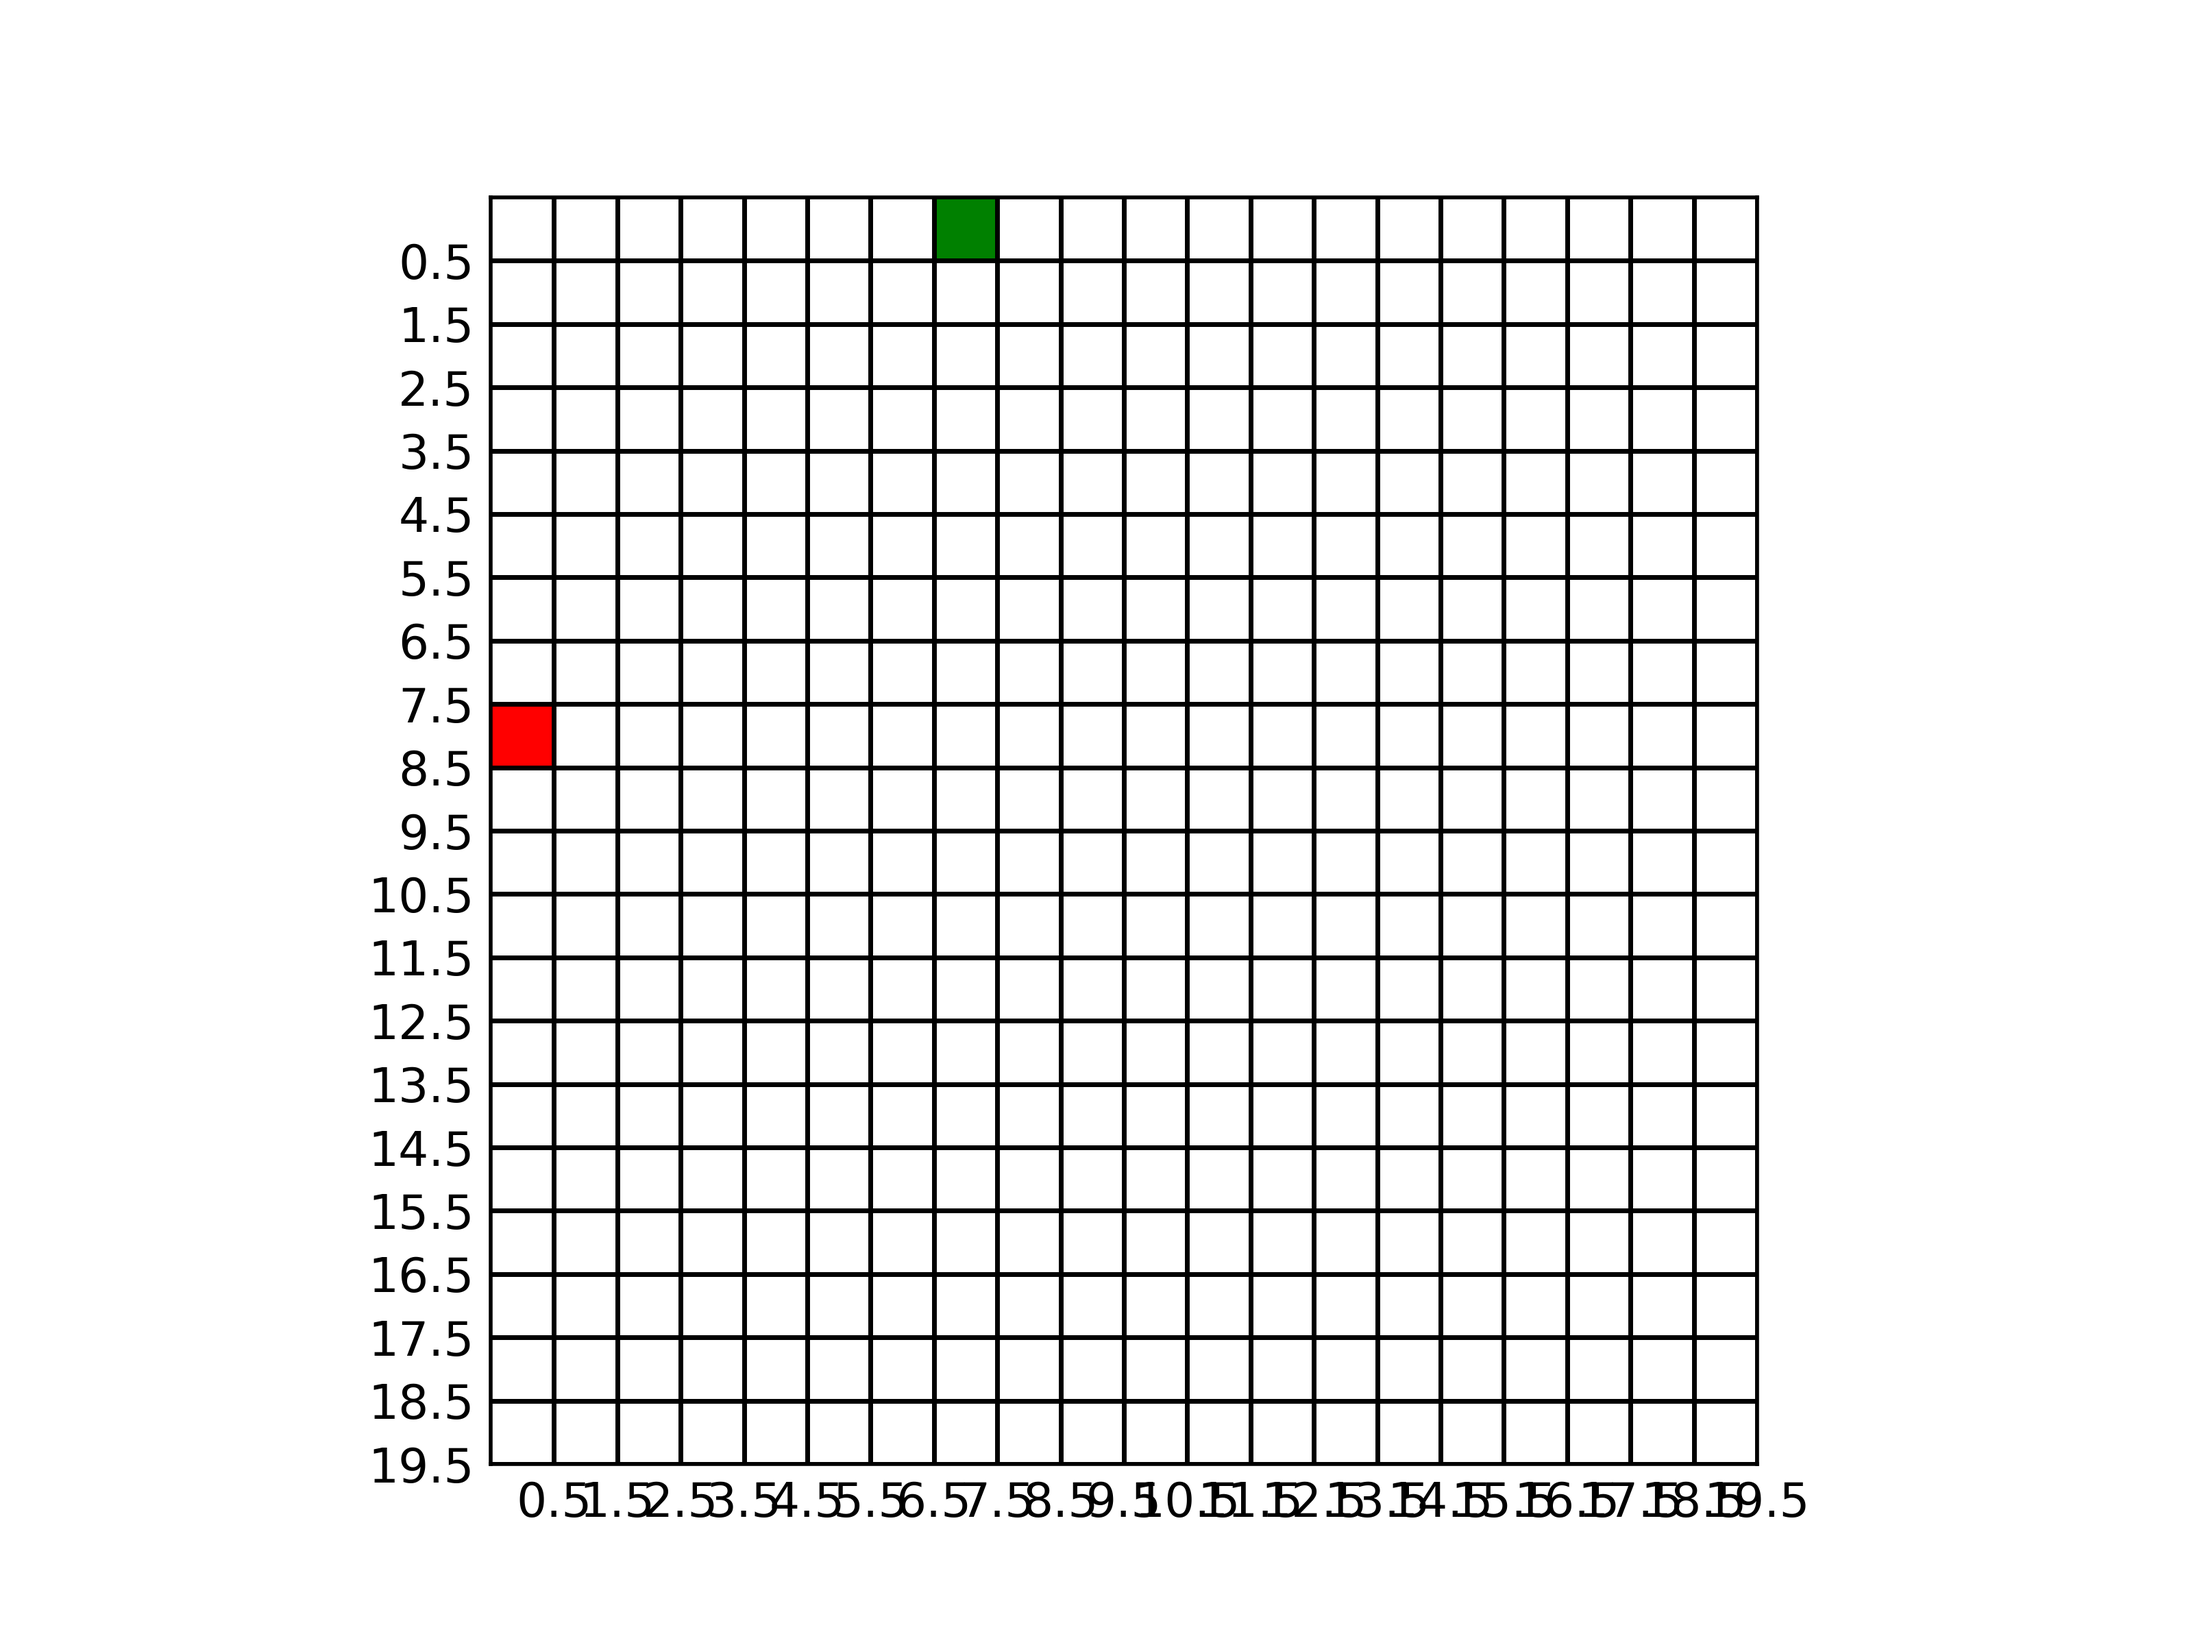
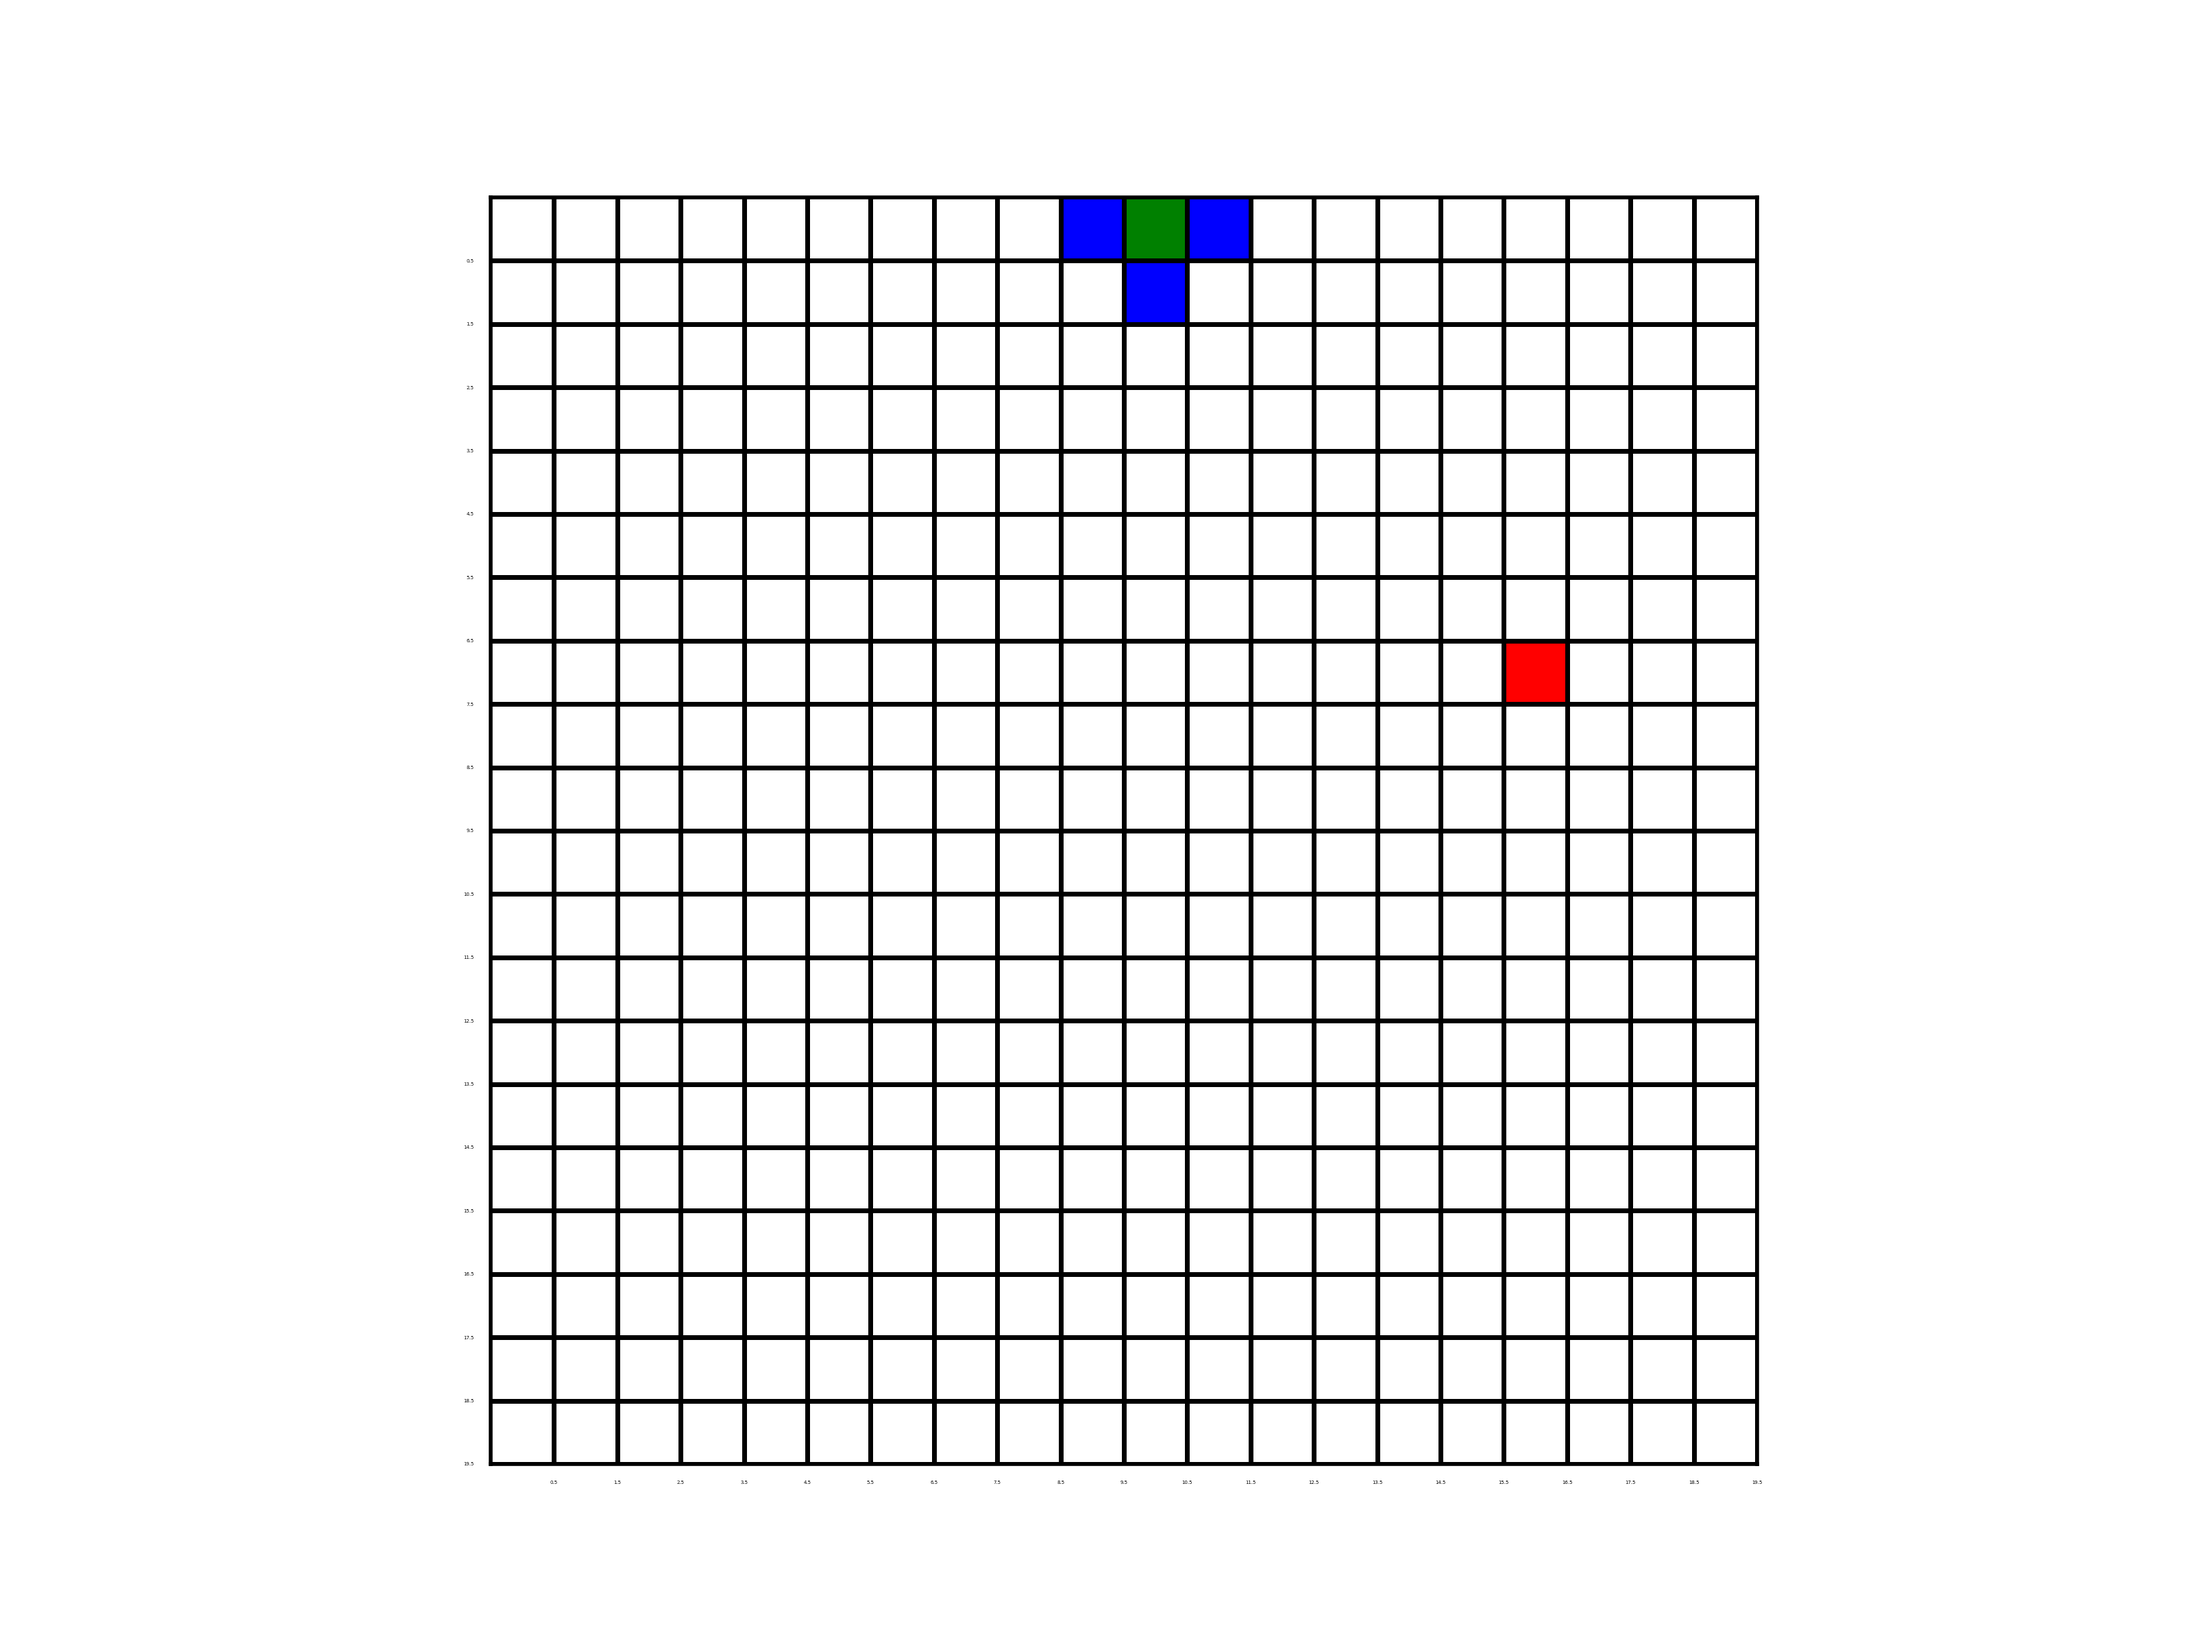
Add function to generate possible moves
Added function that takes a start position and
generates possible moves. Will also change the value
in the grid if the move is a valid move

Also changed the array type to integer so the values
in the array can be used as indicies

diff --git a/week1/grid_generator.py b/week1/grid_generator.py
@@ -24,14 +24,42 @@ def plot_grid(data, saveImageName):
     plt.tick_params(axis='both', labelsize=0, length = 0)
     # fig.set_size_inches((8.5, 11), forward=False)
     plt.savefig(saveImageName + ".png", dpi=500)
+
+def generate_moves(grid, startX, startY):
+    num_rows = np.size(grid, 0)
+    num_cols = np.size(grid, 1)
+
+    # Currently do not support moving diagonally so there is a max
+    # of 4 possible moves, up, down, left, right.
+    possible_moves = np.zeros(8, dtype=int).reshape(4, 2)
+    # Move up
+    possible_moves[0, 0] = startX - 1
+    possible_moves[0, 1] = startY
+    # Move down
+    possible_moves[1, 0] = startX + 1
+    possible_moves[1, 1] = startY
+    # Move left
+    possible_moves[2, 0] = startX
+    possible_moves[2, 1] = startY - 1
+    # Move right
+    possible_moves[3, 0] = startX
+    possible_moves[3, 1] = startY + 1
+    # Change the cell value if the move is valid
+    for row in possible_moves:
+        if row[0] < 0 or row[0] >= num_rows:
+            continue
+        if row[1] < 0 or row[1] >= num_cols:
+            continue
+        grid[row[0], row[1]] = MOVE_CELL
     
+
 if __name__ == "__main__":
     rows = 20
     cols = 20
     # Randomly create 20 different grids
     for i in range(0, 20):
 
-        data = np.zeros(rows * cols).reshape(rows, cols)
+        data = np.zeros(rows * cols, dtype=int).reshape(rows, cols)
         start_x = random.randint(0, rows - 1)
         start_y = random.randint(0, cols - 1)
         data[start_x, start_y] = START_CELL
@@ -45,4 +73,6 @@ if __name__ == "__main__":
         goal_y = random.randint(0, cols - 1)
 
         data[goal_x, goal_y] = GOAL_CELL
+        generate_moves(data, start_x, start_y)
+
         plot_grid(data, "week1/images/grid_" + str(i))
